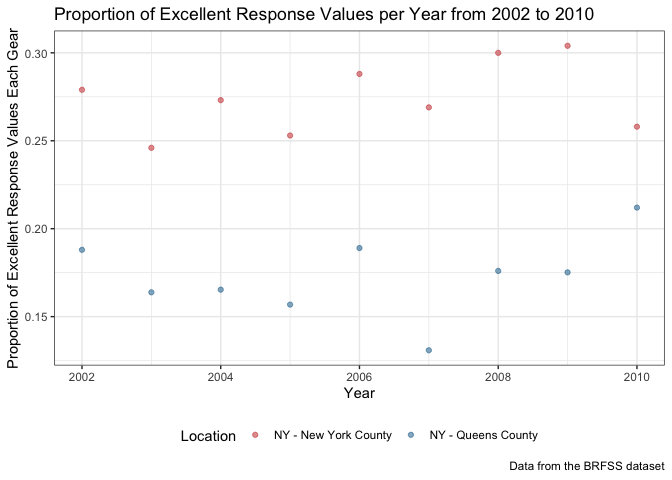
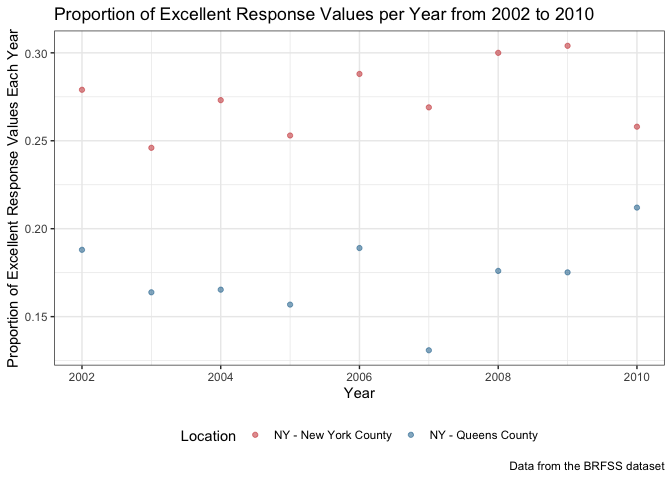
final review of all problems - minor changes to some text descriptions on all problems.

Changed region(s): [[0.0, 0.1875, 0.0312, 0.625], [0.0, 0.6562, 0.0312, 0.7812], [0.0, 0.0625, 0.0312, 0.1562]]

diff --git a/p8105_hw2_dm3175.md b/p8105_hw2_dm3175.md
@@ -1,7 +1,7 @@
 p8105\_hw2\_dm3175
 ================
 Devon Morgan
-9/26/2018
+10/3/2018
 
 Problem 1: NYC Transit Data
 ===========================
@@ -51,7 +51,7 @@ The dataset was imported and the following data cleaning steps were taken:
 
 1.  **How many distinct stations are there?**
 
-To extract the number of distinct stations, created a subset of data removing duplicates based on both `station_name` and `line`. This dataset still maintains information for all other variables kept above.
+To extract the number of distinct stations, created a subset of data removing duplicates based on both `station_name` and `line`. Note that stations are identified both by name and by line (e.g. 125th St A/B/C/D; 125st 1; 125st 4/5). This dataset still maintains information for all other variables kept above.
 
 ``` r
 distinct_NYC_traffic_data = distinct(NYC_traffic_data, line, station_name, .keep_all = TRUE)
@@ -76,18 +76,23 @@ filter(NYC_traffic_data, vending == "NO") %>% pull(entry) %>% mean()
 Reformat Route Number and Route Name Variables
 ----------------------------------------------
 
-To finish making this data tidy, data is reformatted so that route number and route name are distinct variables. Route names equal to "NA" were removed, and data was sorted by line and station\_name.
+To finish making this data tidy, data (both original clean `NYC_traffic_data` dataset and `distinct_NYC_traffic_data` distinct stations datasets) are reformatted so that route number and route name are distinct variables. Route names equal to "NA" were removed, and data was sorted by line and station\_name.
 
 ``` r
 tidy_distinct_NYC_traffic_data = 
   gather(distinct_NYC_traffic_data, key = route_number, value = route_name, route1:route11) %>%
   filter(route_name != "NA") %>% 
   arrange(line, station_name)
+
+tidy_NYC_traffic_data =
+  gather(NYC_traffic_data, key = route_number, value = route_name, route1:route11) %>%
+  filter(route_name != "NA") %>% 
+  arrange(line, station_name)
 ```
 
 ### Questions:
 
-1.  **How many distinct stations serve the A train?** There are 60 distinct stations serving A train.
+1.  **How many distinct stations serve the A train?** There are 60 distinct stations serving the A train.
 
 2.  **Of the stations that serve the A train, how many are ADA compliant?** There are 17 ADA compliant stations of those which serve the A train.
 
@@ -96,6 +101,8 @@ Problem 2: Mr Trash Wheel Data
 
 Import and Clean Whole Dataset
 ------------------------------
+
+The dataset was first imported and cleaned:
 
 ``` r
 trash_wheel_data = read_excel("data/HealthyHarborWaterWheelTotals2017-9-26.xlsx", 
@@ -109,10 +116,10 @@ trash_wheel_data = read_excel("data/HealthyHarborWaterWheelTotals2017-9-26.xlsx"
 
 The following steps were taken to clean the dataset:
 
--   omitted columns with notes
--   cleaned variable names using `janitor::clean_names()`
--   filtered out rows that do not include dumpster-specific data
--   rounded number of sports balls to nearest integer and converted into integer value.
+-   Omitted columns with notes
+-   Cleaned variable names using `janitor::clean_names()`
+-   Filtered out rows that do not include dumpster-specific data (by filtering `dumpster` to exclude "NA" and `month` to exclude "Grand Total")
+-   Rounded number of sports balls to nearest integer and converted into integer value.
 
 Read and Clean Precipitation Data 2016 and 2017
 -----------------------------------------------
@@ -138,15 +145,15 @@ precip_2016_data = read_excel("data/HealthyHarborWaterWheelTotals2017-9-26.xlsx"
       select(year, month, precip_total)
 ```
 
-The following data cleaning steps were taken:
+The following data cleaning steps were taken for both 2016 and 2017 datasets:
 
--   Clean variable names using `janitor::clean_names`
+-   Cleaned variable names using `janitor::clean_names`
 -   Renamed the total precipitation value to `precip_total`
 -   Filtered out "NA" values for `month` and `precip_total`
--   Added `year` variable for year of data collection
--   Reordered columns
+-   Added `year` variable for year of data collection using `mutate` function
+-   Reordered columns to improve logical flow
 
-Next, the datasets from 2016 and 2017 were joined. The values for month in the original dataset were coded as integers. In this step, the integers were converted to month names using the built in `month.name` variable in R.
+Next, the datasets from 2016 and 2017 were joined. The `full join` function was used to preserve all observations from both datasets. The values for month in the original dataset were coded as integers. In this step, the integers were converted to month names using the built in `month.name` variable in R.
 
 ``` r
 precip_data_all = full_join(precip_2016_data, precip_2017_data) %>% 
@@ -176,7 +183,7 @@ The BRFSS dataset includes data from the Behavioral Risk Factors Surveillance Sy
 Import and Clean Dataset
 ------------------------
 
-Load and clean BRFSS data from `p9105.datasets` package:
+Loaded and cleaned BRFSS data from `p9105.datasets` package:
 
 ``` r
 brfss_data = p8105.datasets::brfss_smart2010 %>% 
@@ -208,7 +215,7 @@ The following steps were taken to clean the dataset:
 
 -   Verified variable types imported correctly.
 
--   Filtered data to only consider "Overall Health".
+-   Filtered data to only consider "Overall Health" topic.
 
 -   Selected to keep the following variables: `year`, `location_abbr` which includes an abbreviation for state, `location_desc` which includes a description of specific site, `response` which includes description of response for survey, and `data_value` which includes the numeric value of response.
 
@@ -282,7 +289,7 @@ filter(brfss_data, location_desc == "NY - New York County" | location_desc == "N
   labs(
     title = "Proportion of Excellent Response Values per Year from 2002 to 2010",
     x = "Year",
-    y = "Proportion of Excellent Response Values Each Gear",
+    y = "Proportion of Excellent Response Values Each Year",
     caption = "Data from the BRFSS dataset"
   ) + 
   ggthemes::scale_color_wsj(name = "Location") +
